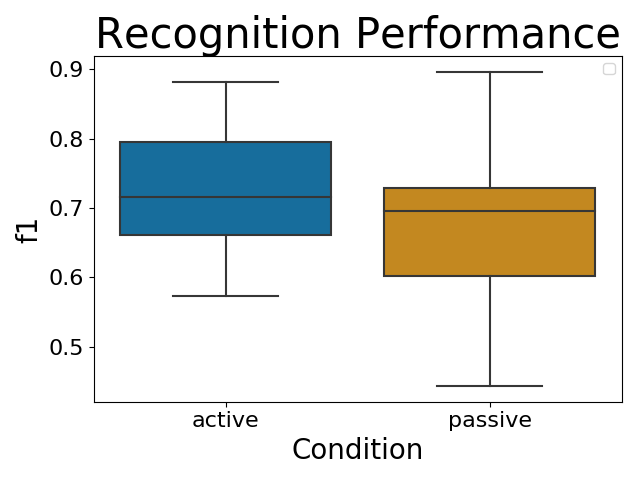
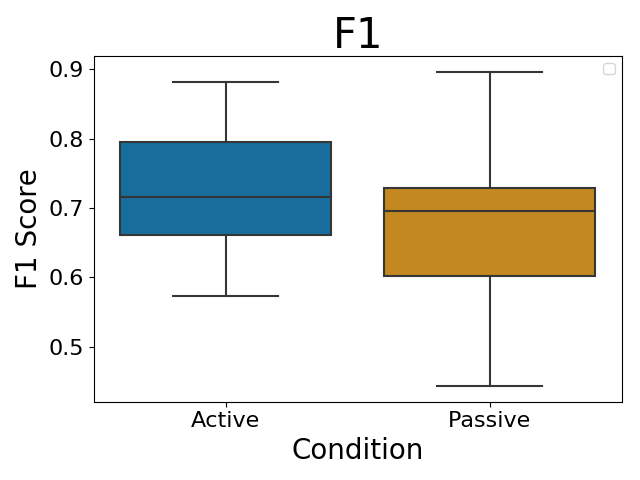
added readme for rencode

diff --git a/rencode/rencode_figs.py b/rencode/rencode_figs.py
@@ -9,31 +9,32 @@ from matplotlib import rcParams
 rcParams.update({'figure.autolayout': True})
 
 def make_rencode_figs(dprimedf, measure_array, conf):
-    # for fig_type, myplot in [('bar', sns.barplot), ('swarm', sns.swarmplot),
-    # ('box', sns.boxplot)]:
     for fig_type, myplot in [('swarm', sns.swarmplot), ('box', sns.boxplot)]:
         for measure in measure_array:
+            measure_cap = measure.capitalize()
             ax=myplot(x='cond', y=measure,
             data=dprimedf, palette="colorblind")
             ax.set_xlabel('Condition', fontsize=20)
+            ax.set_xticklabels({'Active':0, 'Passive':1})
             ax.tick_params(labelsize=16)
             plt.legend(fontsize=12)
             plt.gca().legend().set_title('')
-            ax.set_ylabel(measure, fontsize=20)
-            plt.title('Recognition Performance', fontsize=30)
+            ax.set_ylabel(measure_cap + ' Score', fontsize=20)
+            plt.title(measure_cap, fontsize=30)
             fig=ax.get_figure()
             fig.savefig('figs/rencode_'+fig_type+measure+conf+'.png')
             plt.clf()
 
 def make_cm_matrix(rencode):
     for cond, ldf in rencode.groupby('cond'):
+        cond_cap = cond.capitalize()
         trialtype = ldf['old/new']
         resp = ldf['recog_answer']
         cm=confusion_matrix(trialtype, resp)
         cm = cm.astype('float') / cm.sum(axis=1)[:, np.newaxis]
         cmfig = sns.heatmap(cm, cmap='Blues', annot=True, fmt='g', vmin=0, vmax=.8)
-        plt.title(cond)
+        plt.title(cond_cap, fontsize=30)
         cmfig = cmfig.get_figure()
-        fname = 'figs/rencode_cm_.png'
+        fname = 'figs/rencode_cm_' + cond + '.png'
         cmfig.savefig(fname)
         plt.clf()

diff --git a/rencode/README.md b/rencode/README.md
@@ -1,0 +1,18 @@
+*Project information:*
+Experiment 1 from Active Learning (http://www.donnajobridge.com/active.html)
+
+*What is created:*
+A confusion matrix is made for Active and Passive recognition performance (hits and false alarms).
+
+Swarm plots and box plots are created for the following measures:
+
+Recall
+Precision
+F1
+
+Hit rate
+False alarm rate
+*d* prime
+
+*How to run:*
+To generate figures from behavioral data, go to terminal in the rencode directory. From there, run "python run_rencode.py"
